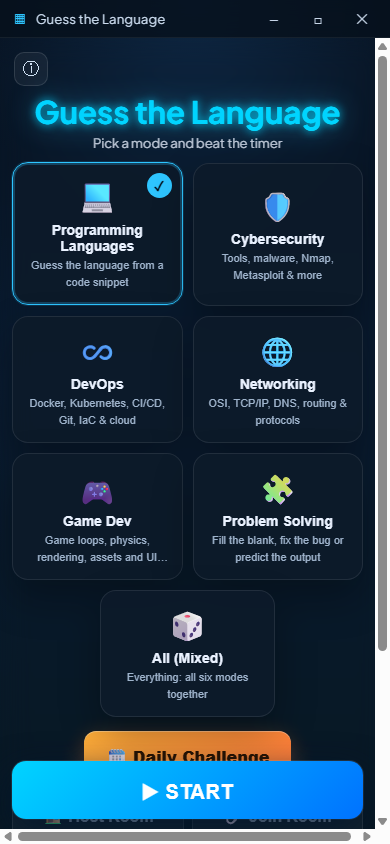
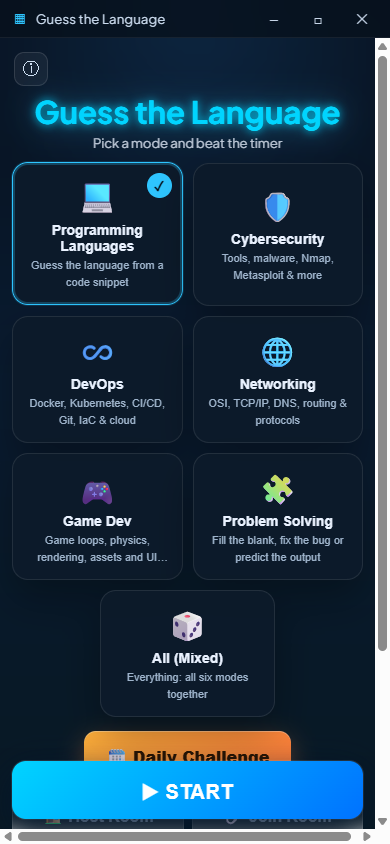
fix(capture): dismiss the first-run welcome before screenshotting
capture.js seeded gtl_settings but never gtl_onboarded, so the welcome
overlay fired 500ms after boot — inside the capture window — and covered
all 13 screenshots behind its blur, including 8-modeselect.png, which is
the Discord rich-presence art asset players actually see.

Seed the flag in reload(), and dismiss (with a warning) in snap() so a
stray overlay can never silently land in an image again.

Changed region(s): [[0.4923, 0.955, 0.9231, 0.9858], [0.0308, 0.955, 0.4615, 0.9858]]

diff --git a/test/capture.js b/test/capture.js
@@ -34,6 +34,10 @@ app.whenReady().then(async () => {
   const run = (js) => win.webContents.executeJavaScript(js, true);
   const sleep = (ms) => new Promise((r) => setTimeout(r, ms));
   async function snap(name) {
+    // The first-run welcome overlay blurs and covers the whole page. reload()
+    // marks it seen, but never let a stray one land in a screenshot.
+    const covered = await run("(() => { const el = document.getElementById('onboarding'); if (!el || !el.classList.contains('show')) return ''; el.classList.remove('show'); return '1'; })()");
+    if (covered) { console.warn('dismissed a stray onboarding overlay before', name); await sleep(200); }
     const img = await win.webContents.capturePage();
     fs.writeFileSync(path.join(OUT, name), img.toPNG());
     console.log('saved', name);
@@ -46,8 +50,11 @@ app.whenReady().then(async () => {
       settings = Object.assign({}, settings, { name: settings.name || 'Capture' });
       await run(`localStorage.setItem('gtl_settings', '${JSON.stringify(settings)}'); 'ok'`);
     }
-    if (settings) { await win.loadFile(path.join(SRC, 'index.html')); await sleep(450); }
-    else await sleep(300);
+    // Mark the first-run welcome seen. It pops 500ms after boot, i.e. exactly
+    // inside the capture window, and covers every screen behind a blur.
+    await run("localStorage.setItem('gtl_onboarded', '1'); 'ok'");
+    await win.loadFile(path.join(SRC, 'index.html'));
+    await sleep(450);
     // Use the offline mock leaderboard for screenshots (don't write to real Supabase).
     await run("window.SUPABASE_CONFIG = { url: '', anonKey: '' }; 'ok'");
   }
